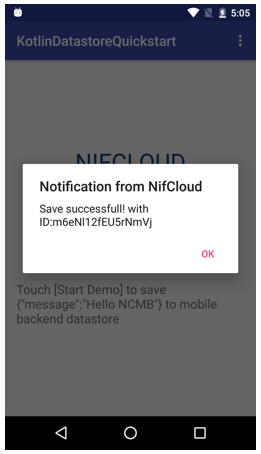
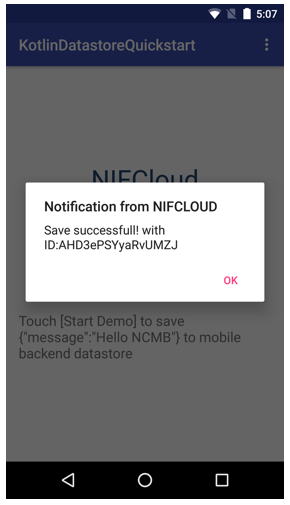
update images

diff --git a/README.md b/README.md
@@ -169,4 +169,4 @@ try {
 # License
 
     MITライセンス
-    NIFCloud mobile backendのAndroid SDKのライセンス
+    NIFCLOUD mobile backendのAndroid SDKのライセンス
